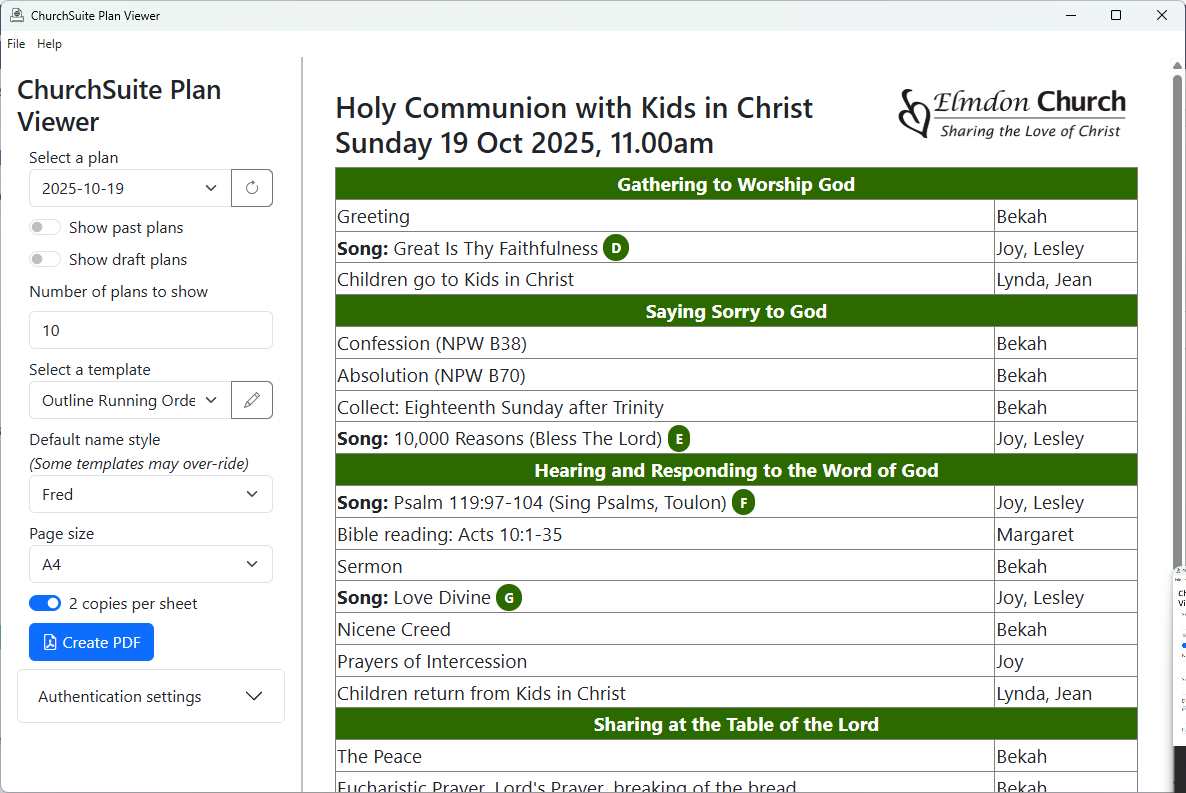
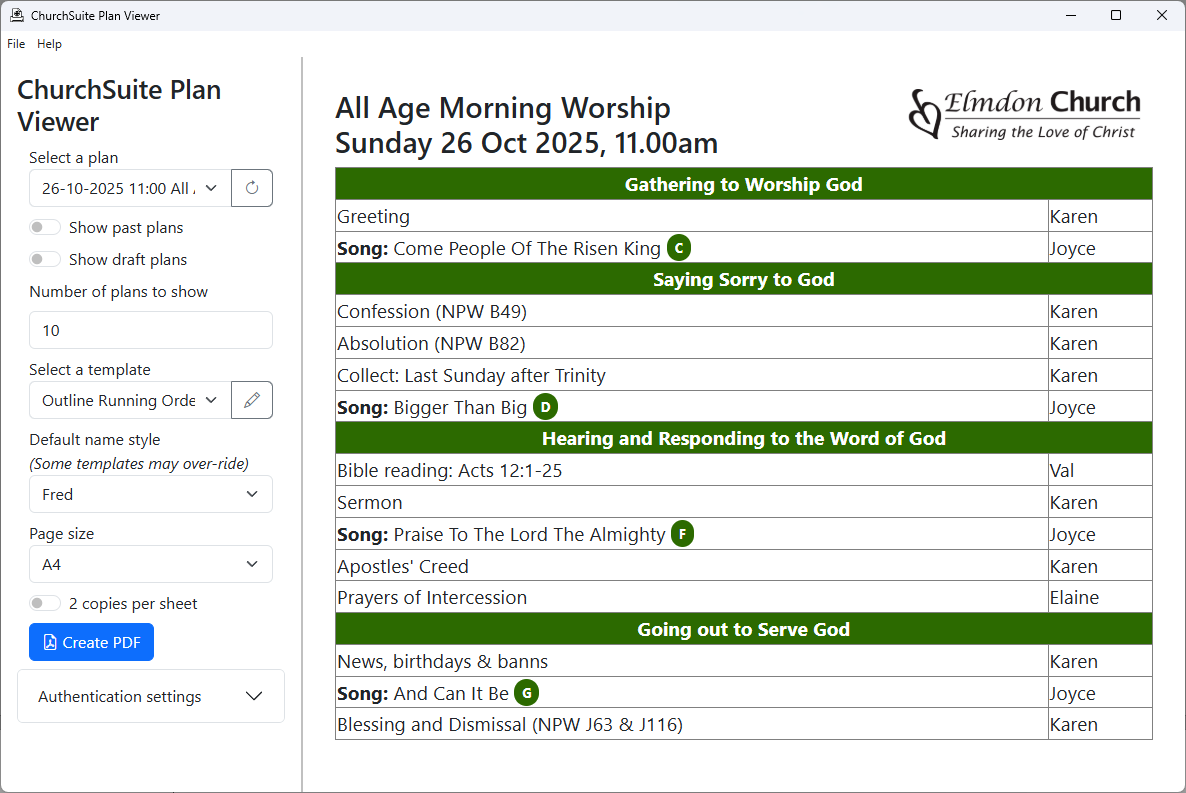
Show plan time and name in "Select a plan" drop-down, not just date

diff --git a/src/main/controller.js b/src/main/controller.js
@@ -194,13 +194,15 @@ export class Controller extends EventEmitter {
 
         let allPlans = []
         if (planData.data) {
-            allPlans = planData.data.map((plan) => {
+            allPlans = await Promise.all(planData.data.map(async (plan) => {
+                const timestamp = Date.parse(plan.date + " " + plan.time)
                 return {
                     id: plan.id,
                     date: plan.date,
-                    timestamp: Date.parse(plan.date + " " + plan.time)
+                    timestamp: timestamp,
+                    name: await this.#templateEngine.renderPlanTitleShort(new Date(timestamp), plan.name)
                 }
-            })
+            }))
         }
 
         // For past plans, sort in reverse date order (most recent first)

diff --git a/src/main/template-engine.js b/src/main/template-engine.js
@@ -294,6 +294,16 @@ export class TemplateEngine {
         return await this.#liquidEngine.parseAndRender('{{plan.detail.date_time | date: "%A %e %b %Y, %l.%M%P"}} - {{plan.detail.name}}', plan)
     }
 
+    async renderPlanTitleShort(date_time, name) {
+        return await this.#liquidEngine.parseAndRender(
+            '{{date_time | date: "%d-%m-%Y %H:%M"}} {{name}}',
+            {
+                date_time: date_time,
+                name: name
+            }
+        )
+    }
+
     #bibleBookFilter(abbr) {
         let name = BOOK_MAPPING[abbr]
         if (name === undefined) {

diff --git a/src/renderer/left/renderer-left.js b/src/renderer/left/renderer-left.js
@@ -34,7 +34,7 @@ const populatePlans = async (plans) => {
     let haveSelected = false
     for (let i in plans) {
         let option = document.createElement('option')
-        option.innerHTML = plans[i].date
+        option.innerHTML = plans[i].name
         option.setAttribute('value', plans[i].id)
         planSelect.append(option)
         if (plans[i].id == selectedPlan) {

diff --git a/CHANGELOG.md b/CHANGELOG.md
@@ -15,6 +15,7 @@ and this project adheres to [Semantic Versioning](https://semver.org/spec/v2.0.0
   to match.
 - Make default brand available to templates as `brand` rather than `plan.brand`
 - Output PDFs now have a suitable title
+- Show plan time and name in "Select a plan" drop-down, not just date
 
 ### Changed
 
